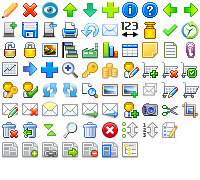
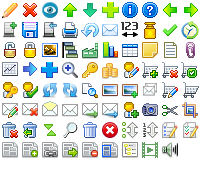
* Agrego clase para seguimiento

Changed region(s): [[0.69, 0.7778, 0.9, 0.8889], [0.9, 0.6667, 1.0, 0.7778]]

diff --git a/GCABA/tablero/css/globalCustom.css b/GCABA/tablero/css/globalCustom.css
@@ -77,7 +77,7 @@ input[type="submit"].icon, input[type="button"].icon {
 	background-color: #f0f0f0 !Important;
 	background-position: 0 0;
 }
-.disabled, input[disabled].icon, input[type="button"].disabled {
+.disabled, input[disabled].icon, input[type="button"].disabled  {
 	background: url(../images/icons_all_dis.png) no-repeat #f0f0f0 !Important;
 	border: solid 1px #ababab !Important;
 	-khtml-border-radius: .2em;
@@ -140,7 +140,7 @@ input[type="submit"].icon, input[type="button"].icon {
 	background-position: -140px -40px !Important; }
 .iconDocument {
 	background-position: -160px -40px !Important; }
-.iconAttach {
+.iconAttach, input.disabled.iconAttach {
 	background-position: -180px -40px !Important; }
 .iconGraph {
 	background-position: -0px -60px !Important; }
@@ -194,6 +194,8 @@ input[type="submit"].icon, input[type="button"].icon {
 	background-position: -140px -120px !Important; }
 .iconListEdit {
 	background-position: -160px -120px !Important; }
+.iconListCheck {
+	background-position: -180px -120px !Important; }
 .iconNews {
 	background-position: 0px -140px !Important; }
 .iconNewsAdd {
